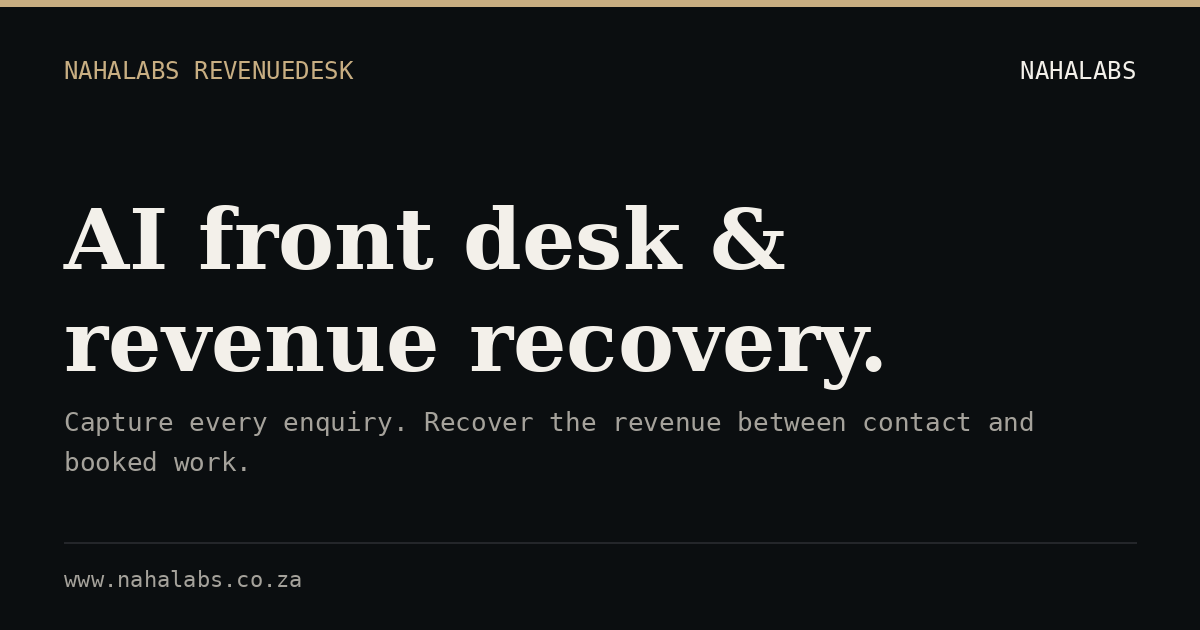
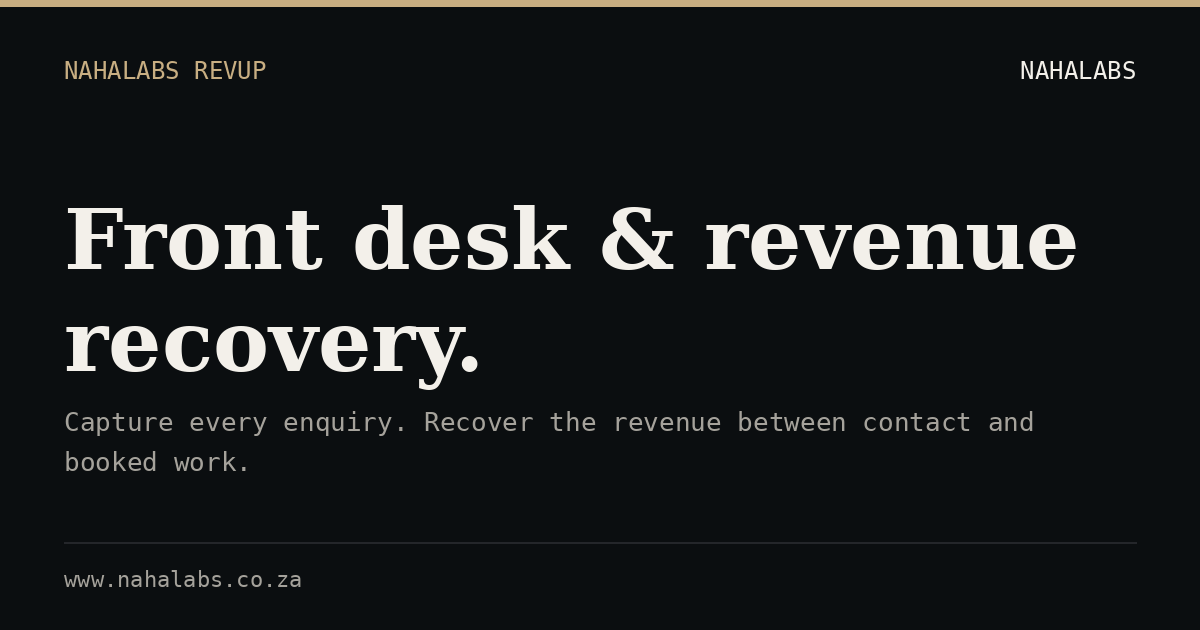
Remove FieldProof and owner WhatsApp number, rename Revenue Desk to RevUp, new hero, new Flavourly and Sandton images
- Remove FieldProof from nav, footer, homepage, systems page, app-frame route, sitemap, OG cards and assets (product retired from site)
- Remove owner WhatsApp/phone number from footer, contact page, container-quote notice, audit CTA (now email) and schema
- Rename visible 'RevenueDesk' to 'RevUp' across homepage, product page, systems page, audit page, schema, llms files and OG card
- Hero: 'We engineer systems that recover revenue for businesses.' + revenue recovery company subline (approved wording)
- Replace AI-generated Flavourly image with realistic Johannesburg restaurant photo
- Replace AI-generated Sandton image with real Sandton City photo (Jolame Chirwa, Unsplash Licence)

Changed region(s): [[0.0617, 0.3016, 0.8942, 0.4524], [0.1233, 0.5127, 0.74, 0.6333], [0.185, 0.0905, 0.3083, 0.1508]]

diff --git a/src/components/RevenueDeskPage.tsx b/src/components/RevenueDeskPage.tsx
@@ -3,8 +3,8 @@ import { ArrowRight, ArrowUpRight, Check } from 'lucide-react';
 
 const SITE = 'https://www.nahalabs.co.za';
 const PATH = '/revenuedesk';
-const TITLE = 'RevenueDesk | Front Desk & Revenue Recovery | NahaLabs';
-const DESCRIPTION = "RevenueDesk is NahaLabs' front desk for service businesses: capture every enquiry, understand intent, handle follow-up and recover revenue lost between first contact and booked work.";
+const TITLE = 'RevUp | Front Desk & Revenue Recovery | NahaLabs';
+const DESCRIPTION = "RevUp is NahaLabs' front desk for service businesses: capture every enquiry, understand intent, handle follow-up and recover revenue lost between first contact and booked work.";
 
 const verticals = [
   'Plumbing',
@@ -45,7 +45,7 @@ const getJsonLd = () => ({
     {
       '@type': 'SoftwareApplication',
       '@id': SITE + PATH + '#software',
-      name: 'RevenueDesk',
+      name: 'RevUp',
       applicationCategory: 'BusinessApplication',
       operatingSystem: 'Web',
       description: DESCRIPTION,
@@ -55,7 +55,7 @@ const getJsonLd = () => ({
     {
       '@type': 'Service',
       '@id': SITE + PATH + '#service',
-      name: 'RevenueDesk',
+      name: 'RevUp',
       serviceType: 'Front desk and revenue recovery',
       provider: { '@id': SITE + '/#organization' },
       areaServed: { '@type': 'Country', name: 'South Africa' },
@@ -116,7 +116,7 @@ export const RevenueDeskPage: React.FC = () => {
                 Your front desk should do more than receive enquiries.
               </h1>
               <p className="mt-7 max-w-3xl text-lead text-fg-2">
-                RevenueDesk is a front desk for service businesses. It captures every enquiry, understands what the customer needs, handles the next action and shows where revenue is leaking between first contact and booked work.
+                RevUp is a front desk for service businesses. It captures every enquiry, understands what the customer needs, handles the next action and shows where revenue is leaking between first contact and booked work.
               </p>
               <div className="mt-8 flex flex-wrap gap-3">
                 <a href="/audit" className="btn btn-primary">
@@ -157,7 +157,7 @@ export const RevenueDeskPage: React.FC = () => {
                 Service businesses rarely lose revenue because they lack a CRM screen. They lose it in the gaps: a customer waits for a reply, a technician never records the urgency, a quote is sent with no chase, or the owner only discovers the missed job weeks later.
               </p>
               <p>
-                RevenueDesk is designed around those gaps. The experience is industry-aware, so a plumbing emergency, an inverter fault, a vehicle breakdown and a dental enquiry do not get treated as the same generic lead.
+                RevUp is designed around those gaps. The experience is industry-aware, so a plumbing emergency, an inverter fault, a vehicle breakdown and a dental enquiry do not get treated as the same generic lead.
               </p>
             </div>
           </div>
@@ -169,7 +169,7 @@ export const RevenueDeskPage: React.FC = () => {
               <p className="text-caption font-mono uppercase tracking-[0.2em] text-accent">REVENUE LEAKS</p>
               <h2 className="mt-3 text-h1 font-semibold">Find the money disappearing between enquiry and sale.</h2>
               <p className="mt-5 text-body text-fg-2">
-                RevenueDesk makes leakage operational. Instead of another inbox, it gives the business a working view of what needs attention, why it matters and what should happen next.
+                RevUp makes leakage operational. Instead of another inbox, it gives the business a working view of what needs attention, why it matters and what should happen next.
               </p>
             </div>
 
@@ -216,7 +216,7 @@ export const RevenueDeskPage: React.FC = () => {
               <p className="text-caption font-mono uppercase tracking-[0.2em] text-accent">INDUSTRY INTELLIGENCE</p>
               <h2 className="mt-3 text-h1 font-semibold">The system changes with the work.</h2>
               <p className="mt-5 text-body text-fg-2">
-                RevenueDesk does not rely on an industry dropdown sitting on top of a generic CRM. Each service category gets its own qualification logic, urgency signals, common leakage patterns and customer language.
+                RevUp does not rely on an industry dropdown sitting on top of a generic CRM. Each service category gets its own qualification logic, urgency signals, common leakage patterns and customer language.
               </p>
             </div>
             <div className="mt-9 flex flex-wrap gap-2.5">
@@ -236,7 +236,7 @@ export const RevenueDeskPage: React.FC = () => {
                 <p className="text-caption font-mono uppercase tracking-[0.2em] text-accent">START WITH EVIDENCE</p>
                 <h2 className="mt-3 text-h1 font-semibold">See your revenue leaks before buying another system.</h2>
                 <p className="mt-4 max-w-2xl text-body text-fg-2">
-                  The NahaLabs Revenue Leak Audit is the diagnostic entry point. It shows where your current enquiry journey is weak and where RevenueDesk can turn that leakage into an operating workflow.
+                  The NahaLabs Revenue Leak Audit is the diagnostic entry point. It shows where your current enquiry journey is weak and where RevUp can turn that leakage into an operating workflow.
                 </p>
               </div>
               <a href="/audit" className="btn btn-primary shrink-0">

diff --git a/src/components/LightHome.tsx b/src/components/LightHome.tsx
@@ -24,14 +24,14 @@ interface SystemItem {
 const SYSTEMS: SystemItem[] = [
   {
     eyebrow: 'Revenue',
-    name: 'RevenueDesk',
+    name: 'RevUp',
     status: 'Live',
     flow: 'Capture → Understand → Recover',
     title: 'Recover revenue hidden inside missed enquiries.',
     description:
       'A front-desk system for service businesses, designed to organise enquiries, prepare follow-up and make missed opportunities visible. Start with a workflow diagnosis.',
     image: ASSETS.enterpriseJhb,
-    alt: 'Johannesburg commercial environment representing RevenueDesk',
+    alt: 'Johannesburg commercial environment representing RevUp',
   },
   {
     eyebrow: 'Hospitality',
@@ -81,19 +81,6 @@ const SYSTEMS: SystemItem[] = [
     href: '/netpulse',
     cta: 'Open NetPulse',
     alt: 'Network technicians on a Johannesburg rooftop radio mast representing NetPulse',
-  },
-  {
-    eyebrow: 'Field evidence',
-    name: 'FieldProof',
-    status: 'Live',
-    flow: 'Notes → Checks → Report',
-    title: 'Catch bad field data before it reaches the report.',
-    description:
-      'Paste technician pump-test notes. FieldProof runs the evidence checks, flags unit mix-ups, duplicates and missing datums, and holds the report behind a human review gate. Sample data. Fictional records.',
-    image: ASSETS.fieldproof,
-    href: '/fieldproof',
-    cta: 'Open FieldProof',
-    alt: 'Field technician capturing evidence at a telecoms cabinet representing FieldProof',
   }
 ];
 
@@ -281,8 +268,8 @@ export const LightHome: React.FC<HomeProps> = ({ onStartConversation }) => {
                 Intelligent systems for revenue &amp; operations
               </motion.p>
               <h1 className="nh-display">
-                <TextAnimate as="span" className="nh-display-line" text="We engineer systems that turn " delay={reduced ? 0 : 0.12} />
-                <TextAnimate as="span" className="nh-display-line nh-display-accent" text="business losses into measurable opportunities." by="word" delay={reduced ? 0 : 0.42} stagger={0.07} />
+                <TextAnimate as="span" className="nh-display-line" text="We engineer systems that " delay={reduced ? 0 : 0.12} />
+                <TextAnimate as="span" className="nh-display-line nh-display-accent" text="recover revenue for businesses." by="word" delay={reduced ? 0 : 0.42} stagger={0.07} />
               </h1>
               <motion.p
                 className="nh-hero-lede"
@@ -290,7 +277,7 @@ export const LightHome: React.FC<HomeProps> = ({ onStartConversation }) => {
                 animate={{ opacity: 1, y: 0 }}
                 transition={{ duration: reduced ? 0 : 0.7, delay: reduced ? 0 : 0.56, ease: EASE_OUT }}
               >
-                NahaLabs builds intelligent systems that help businesses capture missed enquiries, improve restaurant margins, investigate freight costs and automate costly manual workflows. Every system starts with a real business problem and a measurable commercial outcome.
+                NahaLabs is a revenue recovery company. We find the money your business is losing and bring it back.
               </motion.p>
               <motion.div
                 className="nh-hero-actions"
@@ -401,8 +388,8 @@ export const LightHome: React.FC<HomeProps> = ({ onStartConversation }) => {
                     <h3>{system.name}</h3>
                     <p className="nh-system-title">{system.title}</p>
                     <p className="nh-system-description">{system.description}</p>
-                    <a href={system.href ?? (system.name === 'RevenueDesk' ? '/revenuedesk' : '#contact')} className="nh-text-link">
-                      {system.cta ?? (system.name === 'RevenueDesk' ? 'Explore RevenueDesk' : 'Discuss this system')} <ArrowUpRight size={17} strokeWidth={1.5} aria-hidden="true" />
+                    <a href={system.href ?? (system.name === 'RevUp' ? '/revenuedesk' : '#contact')} className="nh-text-link">
+                      {system.cta ?? (system.name === 'RevUp' ? 'Explore RevUp' : 'Discuss this system')} <ArrowUpRight size={17} strokeWidth={1.5} aria-hidden="true" />
                     </a>
                   </div>
                 </Reveal>

diff --git a/index.html b/index.html
@@ -26,7 +26,7 @@
     <meta name="color-scheme" content="light" />
     <title>Intelligent Systems Engineering &amp; Revenue Recovery | NahaLabs</title>
     <meta name="description" content="NahaLabs engineers intelligent systems for South African businesses to recover lost revenue, capture missed opportunities and reduce costly operational friction." />
-    <meta name="keywords" content="Intelligent Systems Engineering, RevenueDesk, Front Desk, Revenue Recovery, Lead Response, WhatsApp Automation, Business Intelligence, Operational Automation, NahaLabs" />
+    <meta name="keywords" content="Intelligent Systems Engineering, RevUp, Front Desk, Revenue Recovery, Lead Response, WhatsApp Automation, Business Intelligence, Operational Automation, NahaLabs" />
     <meta name="author" content="NahaLabs (PTY) Ltd" />
     <meta name="robots" content="index, follow, max-snippet:-1, max-image-preview:large, max-video-preview:-1" />
 
@@ -57,8 +57,6 @@
     <link rel="shortcut icon" href="/nahalabs-icon.svg" />
     <link rel="apple-touch-icon" href="/nahalabs-icon.svg" />
     <link rel="canonical" href="https://www.nahalabs.co.za/" />
-    <link rel="preconnect" href="https://fieldproof.nahalabs.co.za" />
-    <link rel="dns-prefetch" href="https://fieldproof.nahalabs.co.za" />
     <link rel="preconnect" href="https://netpulse.nahalabs.co.za" />
     <link rel="dns-prefetch" href="https://netpulse.nahalabs.co.za" />
     <link rel="preconnect" href="https://fonts.googleapis.com" />
@@ -96,7 +94,6 @@
         "@id": "https://www.nahalabs.co.za/about#founder"
       },
       "email": "ai-solutions@nahalabs.co.za",
-      "telephone": "+27 61 298 0377",
       "description": "NahaLabs is an intelligent systems engineering company based in Johannesburg, South Africa. It builds systems that help businesses recover lost revenue, capture missed opportunities and reduce costly operational friction.",
       "address": {
         "@type": "PostalAddress",
@@ -131,7 +128,7 @@
         "Intelligent systems engineering",
         "AI Opportunity Engineering",
         "Revenue intelligence",
-        "RevenueDesk",
+        "RevUp",
         "WhatsApp business automation",
         "Operational intelligence",
         "Logistics and freight intelligence",
@@ -145,7 +142,6 @@
         "@type": "ContactPoint",
         "contactType": "business enquiries",
         "email": "ai-solutions@nahalabs.co.za",
-        "telephone": "+27 61 298 0377",
         "areaServed": [
           "ZA",
           "LS"
@@ -177,7 +173,6 @@
         "@id": "https://www.nahalabs.co.za/#organization"
       },
       "email": "ai-solutions@nahalabs.co.za",
-      "telephone": "+27 61 298 0377",
       "address": {
         "@type": "PostalAddress",
         "streetAddress": "Sinosteel Plaza, 159 Rivonia Road",
@@ -202,7 +197,7 @@
         "Revenue Intelligence",
         "Freight and Logistics Intelligence",
         "Operational Automation",
-        "RevenueDesk"
+        "RevUp"
       ],
       "areaServed": {
         "@type": "Country",

diff --git a/src/components/PublicSystemsPage.tsx b/src/components/PublicSystemsPage.tsx
@@ -4,10 +4,9 @@ import { ButtonLink } from './Button';
 
 const SITE = 'https://www.nahalabs.co.za';
 const systems = [
-  { id: 'revenuedesk', name: 'RevenueDesk', audience: 'Service businesses', description: 'A front-desk system for organising enquiries, preparing follow-up and reviewing the gaps between first contact and booked work.', status: 'Live', url: '/revenuedesk', action: 'Explore RevenueDesk' },
+  { id: 'revenuedesk', name: 'RevUp', audience: 'Service businesses', description: 'A front-desk system for organising enquiries, preparing follow-up and reviewing the gaps between first contact and booked work.', status: 'Live', url: '/revenuedesk', action: 'Explore RevUp' },
   { id: 'flavourly', name: 'Flavourly', audience: 'Restaurants', description: 'A Restaurant Revenue OS designed for profit growth, revenue recovery, customer retention and repeat sales through insights, marketing, loyalty programmes and personalised engagement. WhatsApp is one part of the system.', status: '', url: '/contact', action: 'Request a walkthrough' },
   { id: 'cargoiq', name: 'CargoIQ', audience: 'Freight and logistics', description: 'Inspect shipment events, delay timelines and the records behind a freight dispute. Evidence for human review, not a promise of recovery.', status: 'Live', url: '/cargo-iq', action: 'Open CargoIQ' },
-  { id: 'fieldproof', name: 'FieldProof', audience: 'Field operations', description: 'Review pump-test notes, missing evidence and inconsistent units before a report is approved. Sample data. Fictional records.', status: 'Live', url: '/fieldproof', action: 'Open FieldProof' },
   { id: 'smilebridge', name: 'Smile Bridge', audience: 'Dental practices', description: 'A patient conversion system: a practice video greeting, one approved question at a time, emergencies escalated to a person first, and routing to booking, WhatsApp or a callback.', status: 'In pilot', url: '/smile-bridge', action: 'View product page' },
   { id: 'netpulse', name: 'NetPulse', audience: 'Internet service providers', description: 'Spreadsheet checks for duplicate IPs, equipment warranties and data quality. Sample data. Fictional records.', status: 'Live', url: '/netpulse', action: 'Open NetPulse' },
   { id: 'railwatch', name: 'RailWatch', audience: 'Infrastructure teams', description: 'Corridor signals, incident records and response workflows in one monitoring review. Sample data. Fictional records.', status: 'Live', url: '/railwatch', action: 'Open RailWatch' },

diff --git a/src/data/assets.ts b/src/data/assets.ts
@@ -5,8 +5,8 @@
 const heroWebp = '/assets/images/nahalabs_hero_1789398573439_opt.webp';
 const heroJpg = '/assets/images/nahalabs_hero_1789398573439_opt.jpg';
 
-const flavourlyWebp = '/assets/images/flavourly_system_1789398600949_opt.webp';
-const flavourlyJpg = '/assets/images/flavourly_system_1789398600949_opt.jpg';
+const flavourlyWebp = '/assets/images/flavourly_system_v2_opt.webp';
+const flavourlyJpg = '/assets/images/flavourly_system_v2_opt.jpg';
 
 const cargoiqWebp = '/assets/images/cargoiq_system_1789398617043_opt.webp';
 const cargoiqJpg = '/assets/images/cargoiq_system_1789398617043_opt.jpg';
@@ -14,14 +14,11 @@ const cargoiqJpg = '/assets/images/cargoiq_system_1789398617043_opt.jpg';
 const railwatchWebp = '/assets/images/railwatch_system_1789398646749_opt.webp';
 const railwatchJpg = '/assets/images/railwatch_system_1789398646749_opt.jpg';
 
-const enterpriseJhbWebp = '/assets/images/enterprise_jhb_1789398631359_opt.webp';
-const enterpriseJhbJpg = '/assets/images/enterprise_jhb_1789398631359_opt.jpg';
+const enterpriseJhbWebp = '/assets/images/enterprise_jhb_v2_opt.webp';
+const enterpriseJhbJpg = '/assets/images/enterprise_jhb_v2_opt.jpg';
 
 const netpulseWebp = '/assets/images/netpulse_system_opt.webp';
 const netpulseJpg = '/assets/images/netpulse_system_opt.jpg';
-
-const fieldproofWebp = '/assets/images/fieldproof_system_opt.webp';
-const fieldproofJpg = '/assets/images/fieldproof_system_opt.jpg';
 
 export interface SystemAsset {
   webp: string;
@@ -44,8 +41,6 @@ export const ASSETS = {
   netpulse: netpulseWebp,
   netpulseJpg: netpulseJpg,
 
-  fieldproof: fieldproofWebp,
-  fieldproofJpg: fieldproofJpg,
 
   enterpriseJhb: enterpriseJhbWebp,
   enterpriseJhbJpg: enterpriseJhbJpg,

diff --git a/src/components/Footer.tsx b/src/components/Footer.tsx
@@ -178,17 +178,6 @@ export const Footer: React.FC<FooterProps> = ({
                 </dd>
               </div>
               <div>
-                <dt className="text-caption text-fg-3">Phone / WhatsApp</dt>
-                <dd className="mt-1 flex flex-wrap items-center gap-x-4 gap-y-1">
-                  <a href="tel:+27612980377" className="text-fg underline decoration-line-strong underline-offset-4 hover:decoration-accent">
-                    061 298 0377
-                  </a>
-                  <a href="https://wa.me/27612980377" target="_blank" rel="noreferrer" className="text-caption text-fg-2 hover:text-accent transition-colors shrink-0 min-h-11 px-1">
-                    WhatsApp
-                  </a>
-                </dd>
-              </div>
-              <div>
                 <dt className="text-caption text-fg-3">Location</dt>
                 <dd className="mt-1 flex flex-wrap items-center gap-x-4 gap-y-1">
                   <span className="text-fg">Johannesburg, Gauteng, South Africa</span>
@@ -243,7 +232,6 @@ export const Footer: React.FC<FooterProps> = ({
                 ['/bankbook', 'BankBook'],
                 ['/cargo-iq', 'CargoIQ'],
                 ['/nutri-tummies', 'Nutri Tummies'],
-                ['/fieldproof', 'FieldProof'],
                 ['/railwatch', 'RailWatch'],
                 ['/netpulse', 'NetPulse'],
                 ['/smile-bridge', 'Smile Bridge (pilot)'],

diff --git a/audit.html b/audit.html
@@ -42,7 +42,7 @@ section{border-top:1px solid #d3d7dc;padding:58px 0}.topgrid,.roi{display:grid;g
 <section><div class="wrap"><div class="eyebrow">Priority findings</div><h2>Fix these first.</h2><p id="findingCount" class="sub"></p><div id="findings" class="findings"></div></div></section>
 
 <section><div class="wrap"><div class="eyebrow">NahaLabs fix stack</div><h2>The audit turns into work.</h2><p class="sub">Every finding maps to a concrete implementation layer. The next conversation is about fixing the leak, not buying another report.</p><div id="fixPlan" class="fixgrid"></div>
-<div class="cta"><a id="whatsapp" class="btn" target="_blank" rel="noreferrer">Send this audit to NahaLabs</a><a class="btn secondary" href="/revenuedesk">See how RevenueDesk fixes enquiry leakage</a></div></div></section>
+<div class="cta"><a id="whatsapp" class="btn" target="_blank" rel="noreferrer">Send this audit to NahaLabs</a><a class="btn secondary" href="/revenuedesk">See how RevUp fixes enquiry leakage</a></div></div></section>
 
 <section><div class="wrap"><div class="eyebrow">Fix Pack preview</div><h2>Here is what we would change.</h2><p class="sub">This turns the audit into implementation-ready work. The preview is generated from the problems detected on the page.</p>
 <div class="fixgrid">

diff --git a/src/components/ContactSection.tsx b/src/components/ContactSection.tsx
@@ -19,7 +19,6 @@ import {
   Clock, 
   AlertCircle,
   Save,
-  MessageCircle,
 } from 'lucide-react';
 import { toast } from 'sonner';
 import { Button } from './Button';
@@ -479,19 +478,6 @@ export const ContactSection: React.FC<ContactSectionProps> = ({ prefilledSystem,
                       </>
                     )}
                   </button>
-                </div>
-
-                {/* WhatsApp - fastest for most SA businesses */}
-                <div className="flex items-center justify-between gap-3 p-2.5 rounded bg-[#F7F8FA] border border-[#D1D5DB] group hover:border-[#3a3c40] transition-colors">
-                  <a
-                    href="https://wa.me/27612980377?text=Hi%20NahaLabs%20-%20I%20have%20an%20enquiry."
-                    target="_blank"
-                    rel="noreferrer"
-                    className="flex items-center gap-2.5 text-[#0B0E10] hover:text-[#355241] transition-colors min-w-0"
-                  >
-                    <MessageCircle className="w-4 h-4 text-[#355241] shrink-0" />
-                    <span>WhatsApp 061 298 0377</span>
-                  </a>
                 </div>
 
                 {/* Physical Address with Copy to Clipboard */}

diff --git a/services/revenue-leak-audit-johannesburg.html b/services/revenue-leak-audit-johannesburg.html
@@ -82,7 +82,7 @@
         <div class="step"><div class="num">01</div><div><h3>Enter the website</h3><p>The public audit fetches the page and measures what a buyer can actually see and act on.</p></div></div>
         <div class="step"><div class="num">02</div><div><h3>Get a Revenue Leak Score</h3><p>The result ranks the visible problems so you can focus on the highest-impact work instead of a long checklist.</p></div></div>
         <div class="step"><div class="num">03</div><div><h3>See the fix stack</h3><p>Each finding maps to a practical implementation layer: conversion, trust, visibility or mobile performance.</p></div></div>
-        <div class="step"><div class="num">04</div><div><h3>Have NahaLabs fix the leaks</h3><p>We use RevenueDesk for lead capture, qualification, WhatsApp response, follow-up and revenue recovery where the business needs it.</p></div></div>
+        <div class="step"><div class="num">04</div><div><h3>Have NahaLabs fix the leaks</h3><p>We use RevUp for lead capture, qualification, WhatsApp response, follow-up and revenue recovery where the business needs it.</p></div></div>
       </div>
     </section>
 

diff --git a/src/components/AuditPage.tsx b/src/components/AuditPage.tsx
@@ -225,13 +225,11 @@ export const AuditPage: React.FC = () => {
 
                 <div className="mt-8 flex flex-wrap gap-3">
                   <ButtonLink
-                    href={`https://wa.me/27612980377?text=${encodeURIComponent(`Hi NahaLabs — I ran the free Revenue Leak Audit for ${domain}. Score: ${audit.score}/100. I want help fixing the highest-impact leaks.`)}`}
-                    target="_blank"
-                    rel="noreferrer"
+                    href={`mailto:ai-solutions@nahalabs.co.za?subject=${encodeURIComponent(`Revenue Leak Audit - ${domain}`)}&body=${encodeURIComponent(`Hi NahaLabs - I ran the free Revenue Leak Audit for ${domain}. Score: ${audit.score}/100. I want help fixing the highest-impact leaks.`)}`}
                   >
                     Send This Audit to NahaLabs
                   </ButtonLink>
-                  <ButtonLink href="/revenuedesk" variant="secondary">See RevenueDesk</ButtonLink>
+                  <ButtonLink href="/revenuedesk" variant="secondary">See RevUp</ButtonLink>
                 </div>
               </div>
             </section>

diff --git a/public/container-quote/index.html b/public/container-quote/index.html
@@ -99,7 +99,7 @@
 <section class="lock" id="trial-lock">
   <h2>This quote tool's free trial has ended</h2>
   <p id="lock-customer">To get a quote, please contact the transporter directly.</p>
-  <div class="owner"><b>Owner of <span id="lock-name">this business</span>?</b> Keep your customers' quote sheets coming in clean. Contact NahaLabs to continue: <a href="https://wa.me/27612980377">WhatsApp 061 298 0377</a> or <a href="mailto:ai-solutions@nahalabs.co.za?subject=Container%20quote%20tool%20-%20continue">ai-solutions@nahalabs.co.za</a>.</div>
+  <div class="owner"><b>Owner of <span id="lock-name">this business</span>?</b> Keep your customers' quote sheets coming in clean. Contact NahaLabs to continue: <a href="mailto:ai-solutions@nahalabs.co.za?subject=Container%20quote%20tool%20-%20continue">ai-solutions@nahalabs.co.za</a>.</div>
 </section>
 <main class="wrap" id="form-view">
   <div class="intro">

diff --git a/src/components/FeaturedSystems.tsx b/src/components/FeaturedSystems.tsx
@@ -68,7 +68,7 @@ const SYSTEMS = [
       'Instant inbound enterprise intent scoring, automated prospect data enrichment, and digital worker follow-up before buyer momentum fades.',
     image: ASSETS.enterpriseJhb,
     imageFallback: ASSETS.enterpriseJhbJpg,
-    alt: 'Johannesburg office towers at dusk, the setting for the Revenue OS inbound intent and pipeline system',
+    alt: 'Sandton City office towers from the air, the setting for the Revenue OS inbound intent and pipeline system',
     outcomes: [
       'Sub-second inbound enterprise enrichment and executive intent mapping',
       'Autonomous digital worker outreach active within 120 seconds of inquiry',
